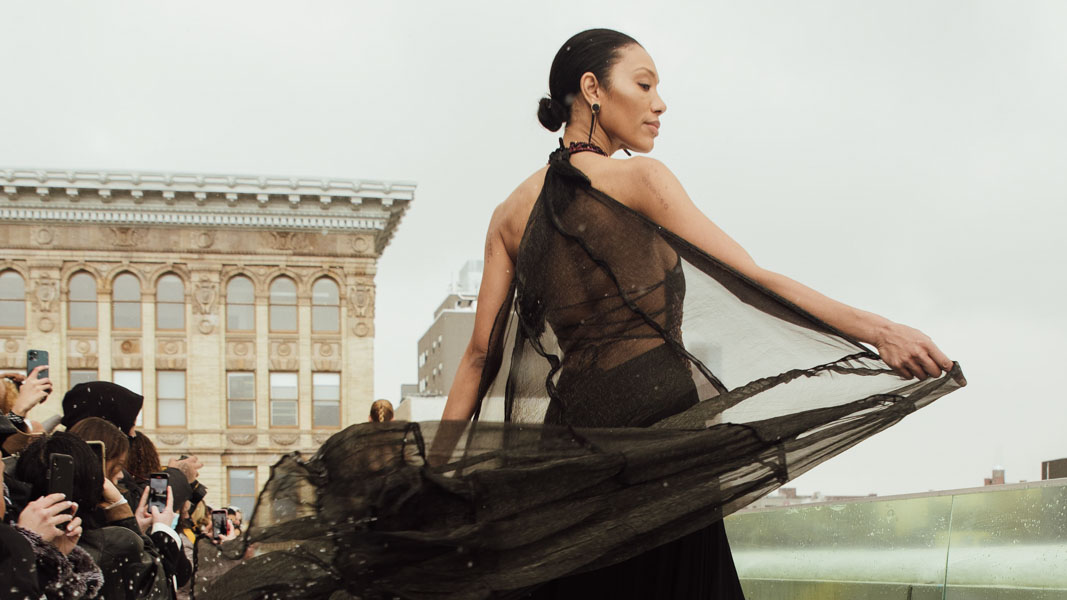
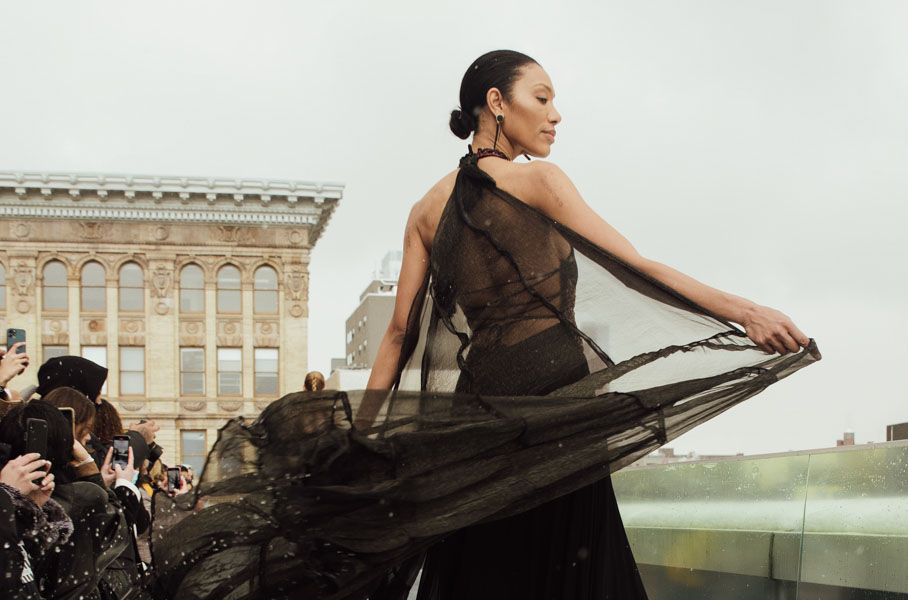
profile image header

diff --git a/client/src/AdminEditProduct.js b/client/src/AdminEditProduct.js
@@ -1,76 +1,107 @@
-import { Form, Container, Button } from 'semantic-ui-react'
-import { useState } from 'react'
-import { useNavigate } from 'react-router-dom'
+import { Form, Container, Button } from 'semantic-ui-react';
+import { useState } from 'react';
+import { useNavigate } from 'react-router-dom';
 
-function AdminEditProduct( {product, editProduct} ){
-    const [formState, setFormState] = useState({
-        title: product.title,
-        description: product.description,
-        image: product.image,
-        price: product.price,
-        color: product.color,
-        category: product.categories.map((category) => category.name),
+function AdminEditProduct({ product, editProduct }) {
+  const [formState, setFormState] = useState({
+    title: product.title,
+    description: product.description,
+    image: product.image,
+    price: product.price,
+    color: product.color,
+    category: product.categories.map(category => category.name),
+  });
 
+  const { title, description, image, price, color, category } = formState;
+
+  let navigate = useNavigate();
+
+  function handleSubmit(e) {
+    e.preventDefault();
+
+    fetch(`/products/${product.id}`, {
+      method: 'PATCH',
+      headers: {
+        'Content-Type': 'application/json',
+      },
+      body: JSON.stringify(formState),
     })
+      .then(r => r.json())
+      .then(data => editProduct(data))
+      .then(navigate('/admin'));
+  }
 
-    const {title, description, image, price, color, category} = formState
-    
-    let navigate = useNavigate();
+  function handleFormChange(e) {
+    const { name, value } = e.target;
+    setFormState(prevState => ({ ...prevState, [name]: value }));
+  }
 
-    function handleSubmit(e) {
-        e.preventDefault();
-        
-        fetch(`/products/${product.id}`, {
-            method: "PATCH",
-            headers: {
-                "Content-Type": "application/json",
-            },
-            body: JSON.stringify(formState),
-        })
-        .then((r) => r.json())
-        .then((data) => editProduct(data))
-        .then(navigate('/admin'))
-    }
-    
+  return (
+    <div>
+      <Container>
+        <Form onSubmit={handleSubmit}>
+          <label htmlFor="title">Title</label>
+          <input
+            onChange={handleFormChange}
+            type="text"
+            id="title"
+            name="title"
+            value={title}
+          ></input>
 
+          <label htmlFor="description">Description</label>
+          <input
+            onChange={handleFormChange}
+            type="text"
+            id="description"
+            name="description"
+            value={description}
+          ></input>
 
-    function handleFormChange(e) {
-        const {name, value} = e.target
-        setFormState((prevState) => ({...prevState, [name]:value}))
-    }
+          <label htmlFor="image">Image</label>
+          <input
+            onChange={handleFormChange}
+            type="text"
+            id="image"
+            name="image"
+            value={image}
+          ></input>
 
-    console.log(formState)
+          <label htmlFor="price">Price</label>
+          <input
+            onChange={handleFormChange}
+            type="number"
+            id="price"
+            name="price"
+            value={price}
+          ></input>
 
-    return(
-        <div>
-        <Container>
-            <Form onSubmit={handleSubmit}>
-                <label htmlFor="title">Title</label>
-                <input onChange={handleFormChange} type="text" id="title" name="title" value={title} ></input>
+          <label htmlFor="color">Color</label>
+          <input
+            onChange={handleFormChange}
+            type="text"
+            id="color"
+            name="color"
+            value={color}
+          ></input>
 
-                <label htmlFor="description">Description</label>
-                <input onChange={handleFormChange} type="text" id="description" name="description" value={description} ></input>
+          <label htmlFor="category">Category</label>
+          <input
+            onChange={handleFormChange}
+            type="text"
+            id="category"
+            name="category"
+            value={category}
+          ></input>
 
-                <label htmlFor="image">Image</label>
-                <input onChange={handleFormChange} type="text" id="image" name="image" value={image} ></input>
-
-                <label htmlFor="price">Price</label>
-                <input onChange={handleFormChange} type="number" id="price" name="price" value={price}></input>
-
-                <label htmlFor="color">Color</label>
-                <input onChange={handleFormChange} type="text" id="color" name="color" value={color}></input>
-
-                <label htmlFor="category">Category</label>
-                <input onChange={handleFormChange} type="text" id="category" name="category" value={category}></input>
-
-                <br></br>
-                <br></br>
-                <Button type="submit" >Submit</Button>
-                <br></br>
-            </Form>
-        </Container>
-        </div>
-    )
+          <br></br>
+          <br></br>
+          <Button type="submit">Submit</Button>
+          <br></br>
+        </Form>
+      </Container>
+    </div>
+  );
 }
 
 export default AdminEditProduct;

diff --git a/client/src/UserCreateAccountModal.js b/client/src/UserCreateAccountModal.js
@@ -1,7 +1,7 @@
 import React, { useState } from 'react';
-import { Button, Checkbox, Form, Menu, Modal } from 'semantic-ui-react';
+import { Button, Checkbox, Form, Menu, Modal, Header } from 'semantic-ui-react';
 
-function UserCreateAccountModal({ handleFormChange, handleSubmit }) {
+function UserCreateAccountModal({ handleFormChange, handleSubmit, errors }) {
   const [open, setOpen] = useState(false);
 
   return (
@@ -17,7 +17,7 @@ function UserCreateAccountModal({ handleFormChange, handleSubmit }) {
           <Modal.Header>Create an account</Modal.Header>
           <Modal.Content>
             <Form onSubmit={handleSubmit}>
-              <Form.Field>
+              <Form.Field required>
                 <label>First Name</label>
                 <input
                   onChange={handleFormChange}
@@ -27,7 +27,7 @@ function UserCreateAccountModal({ handleFormChange, handleSubmit }) {
                   placeholder="First Name"
                 />
               </Form.Field>
-              <Form.Field>
+              <Form.Field required>
                 <label>Last Name</label>
                 <input
                   onChange={handleFormChange}
@@ -37,7 +37,7 @@ function UserCreateAccountModal({ handleFormChange, handleSubmit }) {
                   placeholder="Last Name"
                 />
               </Form.Field>
-              <Form.Field>
+              <Form.Field required>
                 <label>Email</label>
                 <input
                   onChange={handleFormChange}
@@ -47,7 +47,7 @@ function UserCreateAccountModal({ handleFormChange, handleSubmit }) {
                   placeholder="Email"
                 />
               </Form.Field>
-              <Form.Field>
+              <Form.Field required>
                 <label>Address</label>
                 <input
                   onChange={handleFormChange}
@@ -57,7 +57,22 @@ function UserCreateAccountModal({ handleFormChange, handleSubmit }) {
                   placeholder="Address"
                 />
               </Form.Field>
-              <Form.Field>
+
+              <div>
+                <br></br>
+                <p className="password">
+                  Please choose a password with at least
+                </p>
+                <ul className="password_list">
+                  <li>8 characters</li>
+                  <li>1 capitalized letter</li>
+                  <li>1 number</li>
+                </ul>
+              </div>
+
+              <br></br>
+
+              <Form.Field required>
                 <label>Password</label>
                 <input
                   onChange={handleFormChange}
@@ -67,7 +82,7 @@ function UserCreateAccountModal({ handleFormChange, handleSubmit }) {
                   placeholder="Password"
                 />
               </Form.Field>
-              <Form.Field>
+              <Form.Field required>
                 <label>Password Confirmation</label>
                 <input
                   onChange={handleFormChange}
@@ -77,13 +92,14 @@ function UserCreateAccountModal({ handleFormChange, handleSubmit }) {
                   placeholder="Confirm Password"
                 />
               </Form.Field>
-              <Form.Field>
+              <Form.Field required>
                 <Checkbox label="I agree to the Terms and Conditions" />
               </Form.Field>
               <Button type="submit" secondary style={{ borderRadius: 0 }}>
                 Submit
               </Button>
             </Form>
+            <Header as="h5">{errors ? <span>{errors}</span> : null}</Header>
           </Modal.Content>
         </Modal>
       </div>

diff --git a/client/src/UserOrders.js b/client/src/UserOrders.js
@@ -2,6 +2,7 @@ import React, { useState, useEffect } from 'react';
 import { Card, Menu, Grid, Image, Divider } from 'semantic-ui-react';
 import { Link } from 'react-router-dom';
 import UserLogOut from './UserLogOut';
+import landing from './16.jpg';
 
 function UserOrders({ setUser, user, setOrders, orders }) {
   // function ordersFetch() {
@@ -17,11 +18,11 @@ function UserOrders({ setUser, user, setOrders, orders }) {
       <Grid>
         <Grid.Row>
           <Divider hidden></Divider>
-          <Image
-            fluid
-            centered
-            src="https://scontent-ort2-1.xx.fbcdn.net/v/t1.6435-9/123918643_3303742496390317_6307368711531021789_n.jpg?_nc_cat=105&ccb=1-7&_nc_sid=e3f864&_nc_ohc=HOxZzi0MTBYAX8M-5U0&_nc_oc=AQkVHdqWSEGL3zBCspgBO9tGvwkPkjT6vbzhI-U-4W9CQ-3xTUHFb5hx05rNbwKd0NPFpp7g-TKa2Ng74vf36qPl&_nc_ht=scontent-ort2-1.xx&oh=00_AT-KCwjPJyEP1Zy4j9uCi3fwM491WWzcVrI_BWKidFtf1Q&oe=63451494"
-          ></Image>
+          <img
+            src={landing}
+            alt="profile-landing"
+            className="profile-landing"
+          />
         </Grid.Row>
         <Grid.Row>
           <Grid.Column width={1}></Grid.Column>

diff --git a/client/src/UserAccountHome.js b/client/src/UserAccountHome.js
@@ -2,6 +2,7 @@ import React from 'react';
 import { Header, Menu, Grid, Image, Divider } from 'semantic-ui-react';
 import { Link } from 'react-router-dom';
 import UserLogOut from './UserLogOut';
+import landing from './16.jpg';
 
 function UserAccountHome({ setUser, user }) {
   return (
@@ -9,11 +10,11 @@ function UserAccountHome({ setUser, user }) {
       <Grid>
         <Grid.Row>
           <Divider hidden></Divider>
-          <Image
-            fluid
-            centered
-            src="https://scontent-ort2-1.xx.fbcdn.net/v/t1.6435-9/123918643_3303742496390317_6307368711531021789_n.jpg?_nc_cat=105&ccb=1-7&_nc_sid=e3f864&_nc_ohc=HOxZzi0MTBYAX8M-5U0&_nc_oc=AQkVHdqWSEGL3zBCspgBO9tGvwkPkjT6vbzhI-U-4W9CQ-3xTUHFb5hx05rNbwKd0NPFpp7g-TKa2Ng74vf36qPl&_nc_ht=scontent-ort2-1.xx&oh=00_AT-KCwjPJyEP1Zy4j9uCi3fwM491WWzcVrI_BWKidFtf1Q&oe=63451494"
-          ></Image>
+          <img
+            src={landing}
+            alt="profile-landing"
+            className="profile-landing"
+          />
         </Grid.Row>
         <Grid.Row>
           <Grid.Column width={1}></Grid.Column>

diff --git a/client/src/UserProfileAccount.js b/client/src/UserProfileAccount.js
@@ -11,6 +11,7 @@ import {
   Header,
 } from 'semantic-ui-react';
 import { useNavigate, Link } from 'react-router-dom';
+import landing from './16.jpg';
 
 function UserProfileAccount({ user, setUser }) {
   const [formState, setFormState] = useState({
@@ -52,11 +53,11 @@ function UserProfileAccount({ user, setUser }) {
       <Grid>
         <Grid.Row>
           <Divider hidden></Divider>
-          <Image
-            fluid
-            centered
-            src="https://scontent-ort2-1.xx.fbcdn.net/v/t1.6435-9/123918643_3303742496390317_6307368711531021789_n.jpg?_nc_cat=105&ccb=1-7&_nc_sid=e3f864&_nc_ohc=HOxZzi0MTBYAX8M-5U0&_nc_oc=AQkVHdqWSEGL3zBCspgBO9tGvwkPkjT6vbzhI-U-4W9CQ-3xTUHFb5hx05rNbwKd0NPFpp7g-TKa2Ng74vf36qPl&_nc_ht=scontent-ort2-1.xx&oh=00_AT-KCwjPJyEP1Zy4j9uCi3fwM491WWzcVrI_BWKidFtf1Q&oe=63451494"
-          ></Image>
+          <img
+            src={landing}
+            alt="profile-landing"
+            className="profile-landing"
+          />
         </Grid.Row>
         <Grid.Row>
           <Grid.Column width={1}></Grid.Column>

diff --git a/client/src/UserCreateAccount.js b/client/src/UserCreateAccount.js
@@ -5,6 +5,8 @@ import UserCreateAccountModal from './UserCreateAccountModal';
 function UserCreateAccount({ setUser }) {
   const [formState, setFormState] = useState({});
 
+  console.log(setUser);
+
   let navigate = useNavigate();
 
   function handleSubmit(e) {

diff --git a/client/src/App.js b/client/src/App.js
@@ -28,6 +28,8 @@ function App() {
   const [user, setUser] = useState({});
   const [orders, setOrders] = useState([]);
 
+  console.log(user);
+
   useEffect(() => {
     fetch('/me').then(r => {
       if (r.ok) {

diff --git a/client/src/App.css b/client/src/App.css
@@ -5,6 +5,15 @@ body {
   background-color: rgb(242, 244, 247);
 }
 
+.profile-landing {
+  height: 80%;
+  padding-left: 20%;
+}
+
+.nyfw {
+  /* height: 100%; */
+}
+
 .spacer {
   padding-top: 5%;
 }

diff --git a/app/models/user.rb b/app/models/user.rb
@@ -2,13 +2,12 @@ class User < ApplicationRecord
     has_many :orders
     has_secure_password
 
-#     PASSWORD_REQUIREMENTS = /\A
-#   (?=.{8,})          # Must contain 8 or more characters
-#   (?=.*\d)           # Must contain a digit
-#   (?=.*[a-z])        # Must contain a lower case character
-#   (?=.*[A-Z])        # Must contain an upper case character
-#   (?=.*[[:^alnum:]]) # Must contain a symbol
-# /x
+    PASSWORD_REQUIREMENTS = /\A
+  (?=.{8,})          # Must contain 8 or more characters
+  (?=.*\d)           # Must contain a digit
+  (?=.*[a-z])        # Must contain a lower case character
+  (?=.*[A-Z])        # Must contain an upper case character
+/x
 
     validates :email, uniqueness: true
     validates :email, :address, :password, :first_name, :last_name, :password_confirmation, presence: true, on: :create

diff --git a/app/models/order.rb b/app/models/order.rb
@@ -1,3 +1,5 @@
 class Order < ApplicationRecord
   belongs_to :user
+
+  validates :name, :address, presence: true, on: :create
 end
